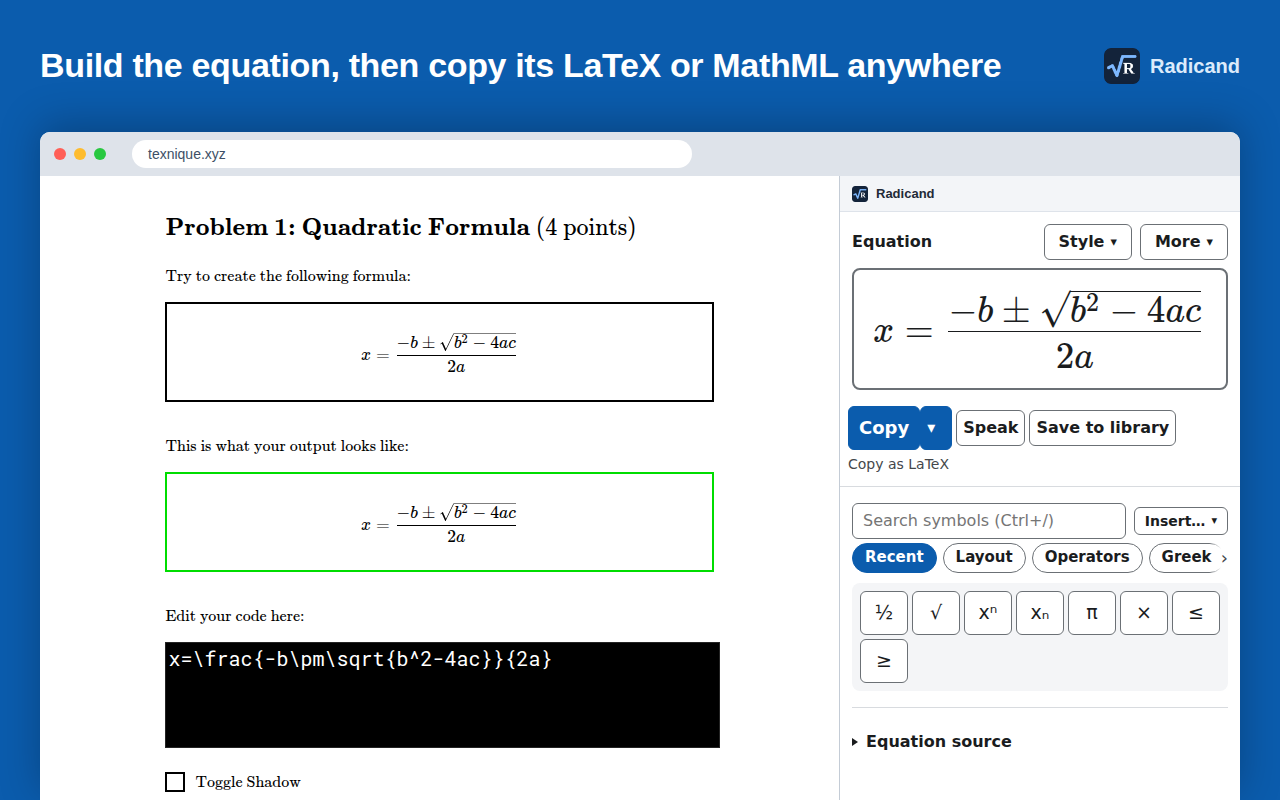
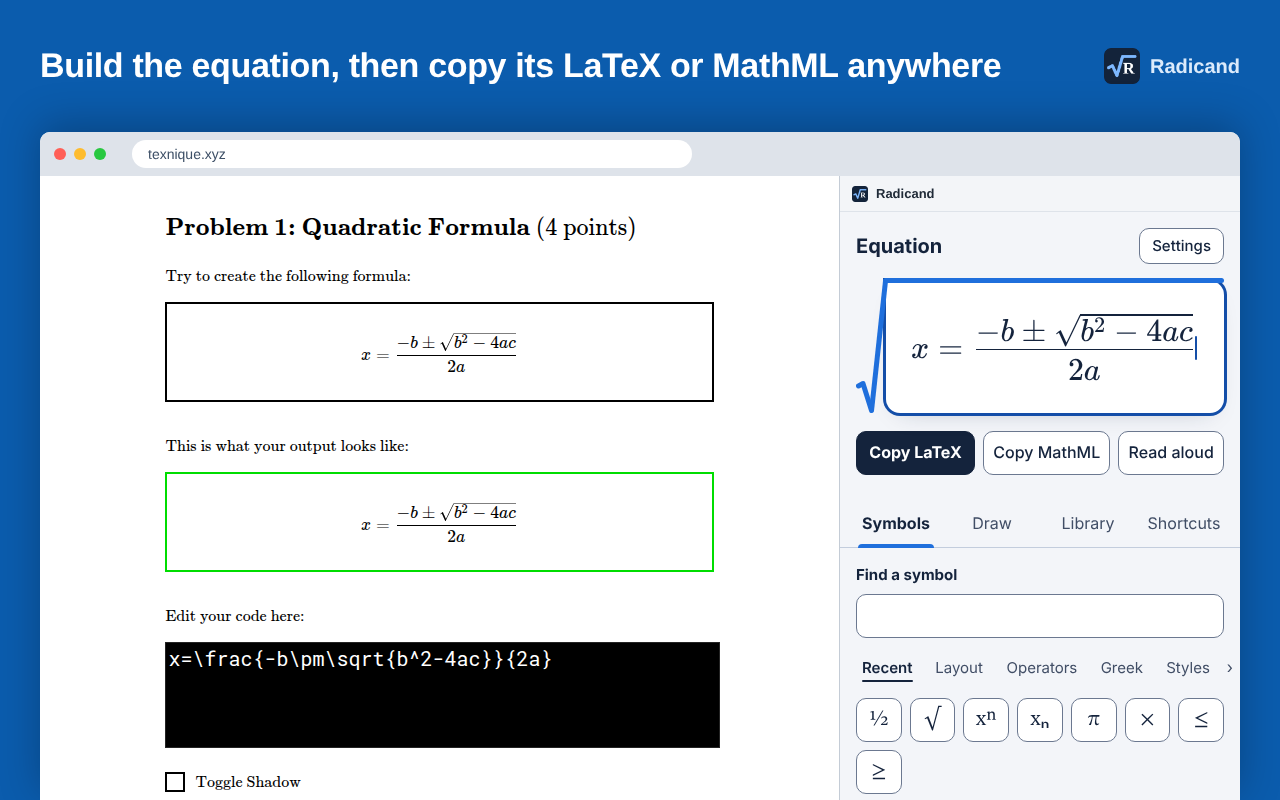
docs: regenerate the store images for the new panel
Claude-Session: https://claude.ai/code/session_01LB9hWWP46TMF92nWoAwek4

diff --git a/docs/store/listing.md b/docs/store/listing.md
@@ -90,7 +90,7 @@ Write maths equations in the browser's side panel and copy them as MathML or LaT
   ```
 - `clipboardWrite`:
   ```text
-  The Copy button and Alt+C put the equation on the clipboard as MathML and LaTeX so it can be pasted into a document.
+  The two copy buttons and Alt+C put the equation on the clipboard as MathML or LaTeX so it can be pasted into a document.
   ```
 
 **Remote code**: No, I am not using remote code. Every script is in the
